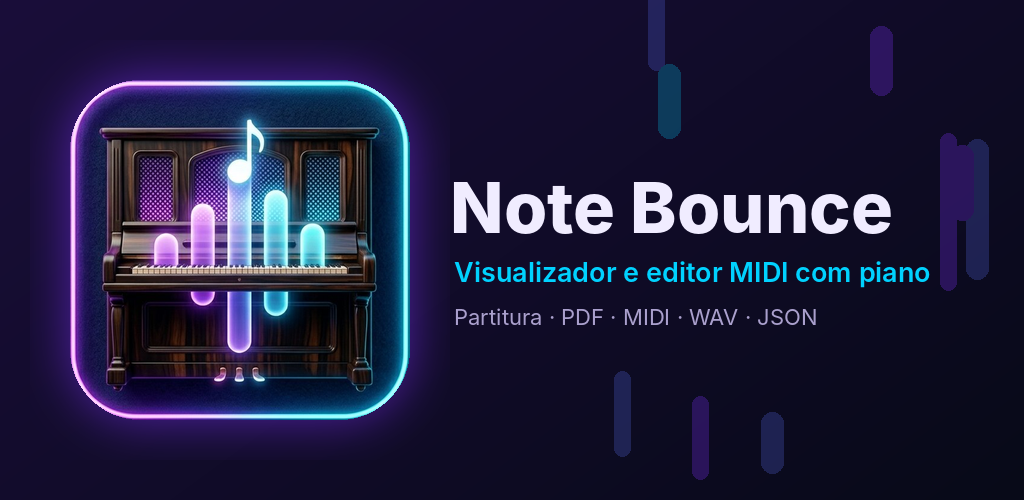
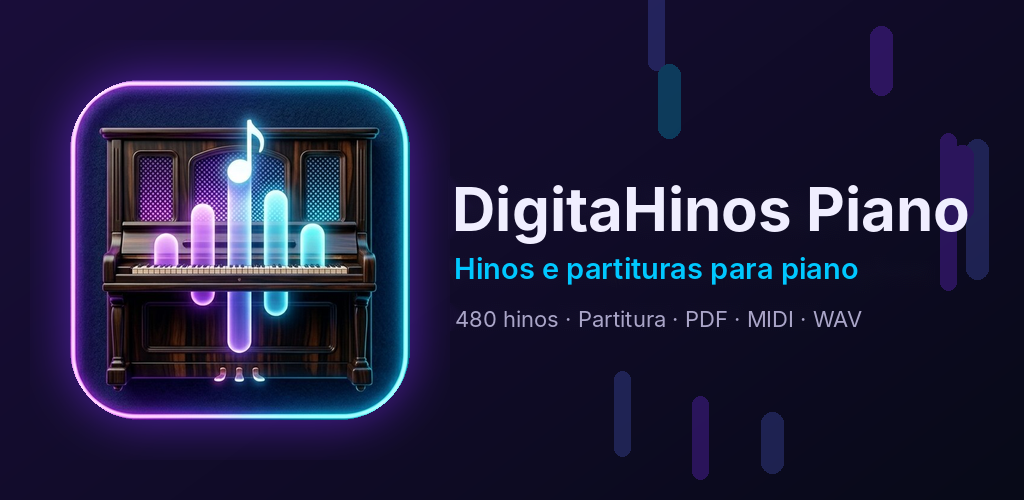
Add files via upload

Changed region(s): [[0.4375, 0.36, 0.9688, 0.57], [0.4375, 0.6, 0.8438, 0.66]]

diff --git a/index.html b/index.html
@@ -3,7 +3,7 @@
 <head>
     <meta charset="UTF-8">
     <meta name="viewport" content="width=device-width, initial-scale=1.0, viewport-fit=cover">
-    <title>Note Bounce - Visualizador MIDI</title>
+    <title>DigitaHinos Piano - Visualizador MIDI</title>
     <link rel="manifest" href="manifest.json">
     <link rel="apple-touch-icon" href="apple-touch-icon.png">
     <link rel="icon" type="image/png" sizes="32x32" href="favicon-32x32.png">
@@ -447,7 +447,7 @@
             <rect x="24" y="12" width="4" height="12" rx="1" fill="#fff" opacity="0.6"/>
             <defs><linearGradient id="lg" x1="0" y1="0" x2="32" y2="32"><stop stop-color="#7b2ff7"/><stop offset="1" stop-color="#00d2ff"/></linearGradient></defs>
         </svg>
-        <span class="logo-name">Note Bounce</span>
+        <span class="logo-name">DigitaHinos Piano</span>
         <span class="note-count-badge" id="noteCountBadge" style="display:none">0 notas</span>
     </div>
     <div class="header-right">
@@ -487,7 +487,7 @@
                     <rect x="90" y="50" width="8" height="35" rx="2" fill="#7b2ff7" opacity="0.5"/>
                     <defs><linearGradient id="wg" x1="0" y1="0" x2="120" y2="120"><stop stop-color="#7b2ff7"/><stop offset="1" stop-color="#00d2ff"/></linearGradient></defs>
                 </svg>
-                <h1>Note Bounce</h1>
+                <h1>DigitaHinos Piano</h1>
                 <p>Carregue um arquivo MIDI, MusicXML (.mxl / .xml) ou crie sua própria partitura</p>
                 <div class="welcome-btns">
                     <label class="welcome-upload" for="welcomeFileInput">Carregar MIDI / MXL
@@ -811,7 +811,7 @@
 
 <div class="pb-modal" id="mPro" hidden>
   <div class="pb-sheet">
-    <div class="pb-head"><h2>⭐ Note Bounce Pro</h2><button class="pb-x" data-close>✕</button></div>
+    <div class="pb-head"><h2>⭐ DigitaHinos Piano Pro</h2><button class="pb-x" data-close>✕</button></div>
     <div class="pb-body">
       <div id="proWhy" class="pb-fine" style="margin:0 0 10px;font-weight:600;color:var(--text-main)"></div>
       <ul class="pro-feats">
@@ -3330,7 +3330,7 @@ function exportMidi(){
     const header=[0x4D,0x54,0x68,0x64,0,0,0,6,0,nt>1?1:0,(nt>>8)&0xFF,nt&0xFF,(tpb>>8)&0xFF,tpb&0xFF];
     const all=[...header];
     tracks.forEach(td=>{ const tl=td.length; all.push(0x4D,0x54,0x72,0x6B,(tl>>24)&0xFF,(tl>>16)&0xFF,(tl>>8)&0xFF,tl&0xFF,...td); });
-    tbSaveFile((window.pbFileBase?window.pbFileBase():'notebounce')+'.mid', new Blob([new Uint8Array(all)],{type:'audio/midi'}));
+    tbSaveFile((window.pbFileBase?window.pbFileBase():'digitahinos-piano')+'.mid', new Blob([new Uint8Array(all)],{type:'audio/midi'}));
     toast('MIDI exportado ('+voiceIds.length+' vozes)!','success');
 }
 
@@ -3683,7 +3683,7 @@ function pbBuildScore(opts){
     });
     const total_pages=svgs.length;
     svgs.forEach((s,i)=>pbEl(s,'text',{x:W/2,y:H-26,'text-anchor':'middle','font-family':'Arial,Helvetica,sans-serif','font-size':11,fill:'#888'},(i+1)+' / '+total_pages));
-    pbEl(svgs[0],'text',{x:W-MX,y:108,'text-anchor':'end','font-family':'Arial,Helvetica,sans-serif','font-size':11,fill:'#888'},ts+'  ·  Note Bounce');
+    pbEl(svgs[0],'text',{x:W-MX,y:108,'text-anchor':'end','font-family':'Arial,Helvetica,sans-serif','font-size':11,fill:'#888'},ts+'  ·  DigitaHinos Piano');
 
     /* ---------- desenho ---------- */
     const INK='#111', HRX=SP*0.66, HRY=SP*0.46;
@@ -3959,11 +3959,11 @@ function pbBassClef(g,x,yF,SP){
 'use strict';
 const $=id=>document.getElementById(id);
 let projName='Sem título', current=null;      // current: {kind:'library',id} | {kind:'folder',file}
-window.pbFileBase=()=>safeName(projName==='Sem título'?'notebounce':projName);
+window.pbFileBase=()=>safeName(projName==='Sem título'?'digitahinos-piano':projName);
 
 function say(t,ok){ toast(t,ok?'success':'error'); }
 function download(name,blob){ tbSaveFile(name,blob); }
-const safeName=s=>(s||'notebounce').replace(/[\\/:*?"<>|]+/g,'_').replace(/\s+/g,' ').trim().slice(0,80)||'notebounce';
+const safeName=s=>(s||'digitahinos-piano').replace(/[\\/:*?"<>|]+/g,'_').replace(/\s+/g,' ').trim().slice(0,80)||'digitahinos-piano';
 const fmtDate=t=>{ try{ return new Date(t).toLocaleString('pt-BR',{dateStyle:'short',timeStyle:'short'}); }catch(e){ return ''; } };
 const busy=on=>loadingOverlay.classList.toggle('active',!!on);
 
@@ -4102,7 +4102,7 @@ async function refreshFolder(){
         }
     }catch(e){ ul.append(emptyLi('Não foi possível ler a pasta')); return; }
     items.sort((a,b)=>b.mod-a.mod);
-    if(!items.length){ ul.append(emptyLi('Nenhum projeto do Note Bounce nesta pasta ainda')); return; }
+    if(!items.length){ ul.append(emptyLi('Nenhum projeto do DigitaHinos Piano nesta pasta ainda')); return; }
     items.forEach(it=>ul.append(projLi(it.name.slice(0,-FOLDER_EXT.length),fmtDate(it.mod)+' · '+Math.max(1,Math.round(it.size/1024))+' KB',
         async()=>{ try{ const f=await it.h.getFile(); const d=JSON.parse(await f.text()); apply(d);
                 projName=it.name.slice(0,-FOLDER_EXT.length); current={kind:'folder',file:it.name}; updateName(); $('projNameIn').value=projName; closeModals(); say('Projeto aberto da pasta',true); }
@@ -4266,7 +4266,7 @@ $('exWav').onclick=async()=>{
     closeModals(); busy(true);
     try{
         const r=await renderWav();
-        download(safeName(projName==='Sem título'?'notebounce':projName)+'.wav',wavBlob(r.buf));
+        download(safeName(projName==='Sem título'?'digitahinos-piano':projName)+'.wav',wavBlob(r.buf));
         say(r.piano?'WAV exportado (piano real)':'WAV exportado (sintetizador — o piano real não carregou)',true);
     }catch(e){ console.error(e); say('Não foi possível gerar o WAV'); }
     busy(false);

diff --git a/privacy.html b/privacy.html
@@ -3,7 +3,7 @@
 <head>
 <meta charset="UTF-8">
 <meta name="viewport" content="width=device-width, initial-scale=1.0">
-<title>Note Bounce – Política de Privacidade / Privacy Policy</title>
+<title>DigitaHinos Piano – Política de Privacidade / Privacy Policy</title>
 <style>
   body{font-family:system-ui,-apple-system,Segoe UI,Roboto,sans-serif;max-width:720px;margin:0 auto;padding:20px 16px 48px;line-height:1.6;color:#251b38;background:#faf7ff}
   h1{font-size:24px;color:#5b2dc4;margin-bottom:4px}
@@ -16,11 +16,11 @@
 </head>
 <body>
 
-<h1>Note Bounce – Política de Privacidade</h1>
+<h1>DigitaHinos Piano – Política de Privacidade</h1>
 <p class="muted">Última atualização: 16 de outubro de 2026 · <a href="#en">Read in English</a></p>
 
 <h2>Resumo</h2>
-<p>O Note Bounce <strong>não coleta, não vende e não compartilha dados pessoais</strong>. Não tem cadastro, login, anúncios, rastreadores nem análise de uso. A única exceção é a ativação opcional da versão Pro, descrita abaixo.</p>
+<p>O DigitaHinos Piano <strong>não coleta, não vende e não compartilha dados pessoais</strong>. Não tem cadastro, login, anúncios, rastreadores nem análise de uso. A única exceção é a ativação opcional da versão Pro, descrita abaixo.</p>
 
 <h2>O que fica no seu aparelho</h2>
 <ul>
@@ -32,7 +32,7 @@
 </ul>
 
 <h2>Conexão com a internet</h2>
-<p>O aplicativo baixa de servidores públicos (CDN) as gravações do piano (Salamander Grand Piano) e, conforme a versão, a biblioteca de áudio (Tone.js) e a fonte (Inter). Como em qualquer acesso à internet, esses servidores podem registrar o endereço IP e dados técnicos básicos do aparelho. O Note Bounce não envia nenhuma informação sua nesses pedidos. Servidores usados: jsDelivr, cdnjs (Cloudflare) e GitHub Pages.</p>
+<p>O aplicativo baixa de servidores públicos (CDN) as gravações do piano (Salamander Grand Piano) e, conforme a versão, a biblioteca de áudio (Tone.js) e a fonte (Inter). Como em qualquer acesso à internet, esses servidores podem registrar o endereço IP e dados técnicos básicos do aparelho. O DigitaHinos Piano não envia nenhuma informação sua nesses pedidos. Servidores usados: jsDelivr, cdnjs (Cloudflare) e GitHub Pages.</p>
 
 <h2>Ativação da versão Pro (opcional)</h2>
 <p>Se você ativar a versão Pro, o aplicativo envia ao servidor de licenças do desenvolvedor (uma planilha protegida do Google) apenas: (1) o <strong>código de ativação</strong> que você digitou e (2) um <strong>identificador anônimo do aparelho</strong>, que é um resumo criptográfico (hash) derivado do ID do Android — o ID original não é enviado. Isso serve só para que o código valha para um único aparelho e para restaurar o Pro se você limpar os dados ou reinstalar o aplicativo. Nenhum nome, e-mail, localização ou outro dado é enviado. Quem nunca ativa o Pro não envia nada. O pagamento (PIX) é feito fora do aplicativo.</p>
@@ -57,11 +57,11 @@
 
 <hr id="en">
 
-<h1>Note Bounce – Privacy Policy</h1>
+<h1>DigitaHinos Piano – Privacy Policy</h1>
 <p class="muted">Last updated: October 16, 2026</p>
 
 <h2>Summary</h2>
-<p>Note Bounce <strong>does not collect, sell or share personal data</strong>. It has no sign-up, login, ads, trackers or analytics. The only exception is the optional Pro activation described below.</p>
+<p>DigitaHinos Piano <strong>does not collect, sell or share personal data</strong>. It has no sign-up, login, ads, trackers or analytics. The only exception is the optional Pro activation described below.</p>
 
 <h2>What stays on your device</h2>
 <ul>
@@ -73,7 +73,7 @@
 </ul>
 
 <h2>Internet access</h2>
-<p>The app downloads the piano recordings (Salamander Grand Piano) and, depending on the version, the audio library (Tone.js) and the font (Inter) from public CDN servers. As with any internet request, those servers may log your IP address and basic technical device data. Note Bounce does not send any of your information in these requests. Servers used: jsDelivr, cdnjs (Cloudflare) and GitHub Pages.</p>
+<p>The app downloads the piano recordings (Salamander Grand Piano) and, depending on the version, the audio library (Tone.js) and the font (Inter) from public CDN servers. As with any internet request, those servers may log your IP address and basic technical device data. DigitaHinos Piano does not send any of your information in these requests. Servers used: jsDelivr, cdnjs (Cloudflare) and GitHub Pages.</p>
 
 <h2>Pro activation (optional)</h2>
 <p>If you activate Pro, the app sends to the developer's license server (a private Google spreadsheet) only: (1) the <strong>activation code</strong> you typed and (2) an <strong>anonymous device identifier</strong>, a cryptographic hash derived from the Android ID — the original ID is not sent. This is used only so that a code works on a single device and to restore Pro if you clear data or reinstall the app. No name, e-mail, location or other data is sent. If you never activate Pro, nothing is sent. Payment (PIX) happens outside the app.</p>

diff --git a/sw.js b/sw.js
@@ -1,5 +1,5 @@
 // Mude este número a CADA publicação nova no GitHub (v3 -> v4 -> v5...)
-const CACHE_NAME = 'note-bounce-v24';
+const CACHE_NAME = 'digitahinos-piano-v25';
 const CORE = ['./', './index.html', './manifest.json'];
 const EXTRA = [
   './icon-192x192.png', './icon-512x512.png', './apple-touch-icon.png', './favicon-32x32.png',

diff --git a/README.md b/README.md
@@ -1,1 +1,1 @@
-# pianotab
+# DigitaHinos Piano
